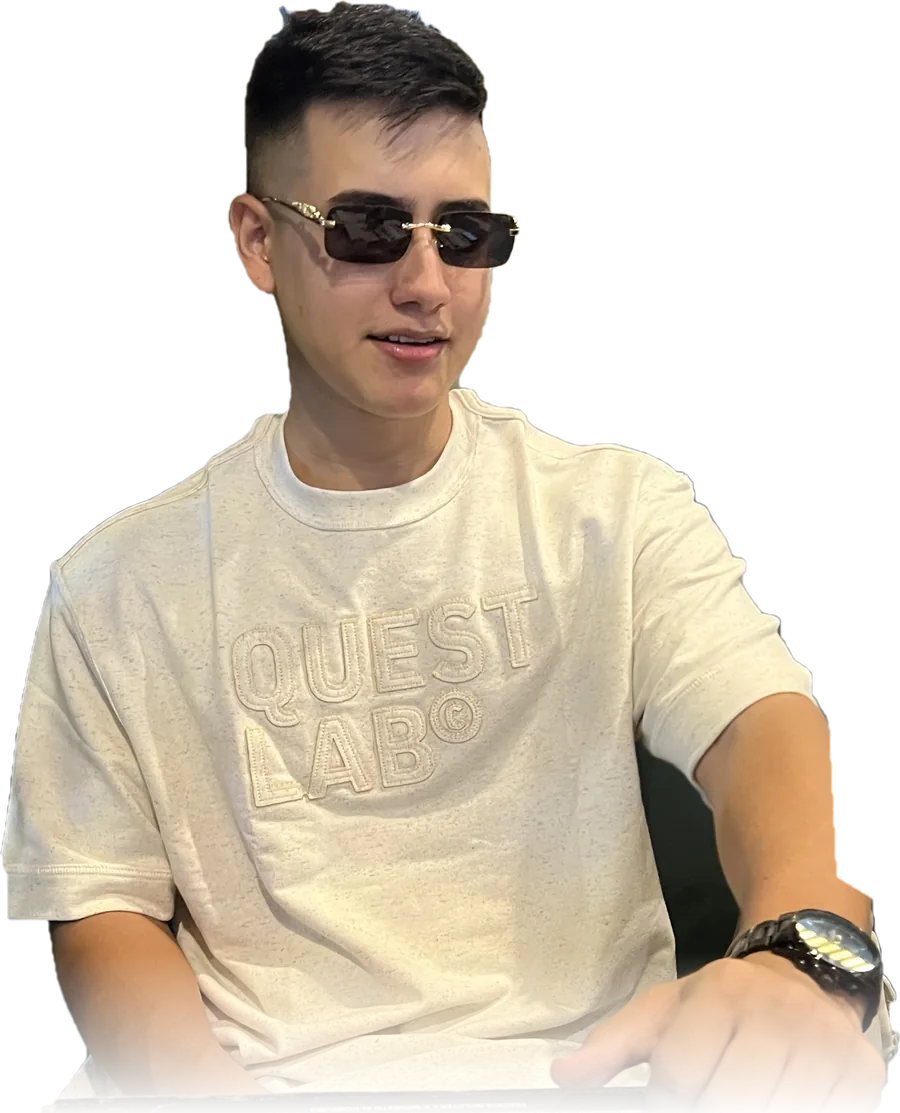
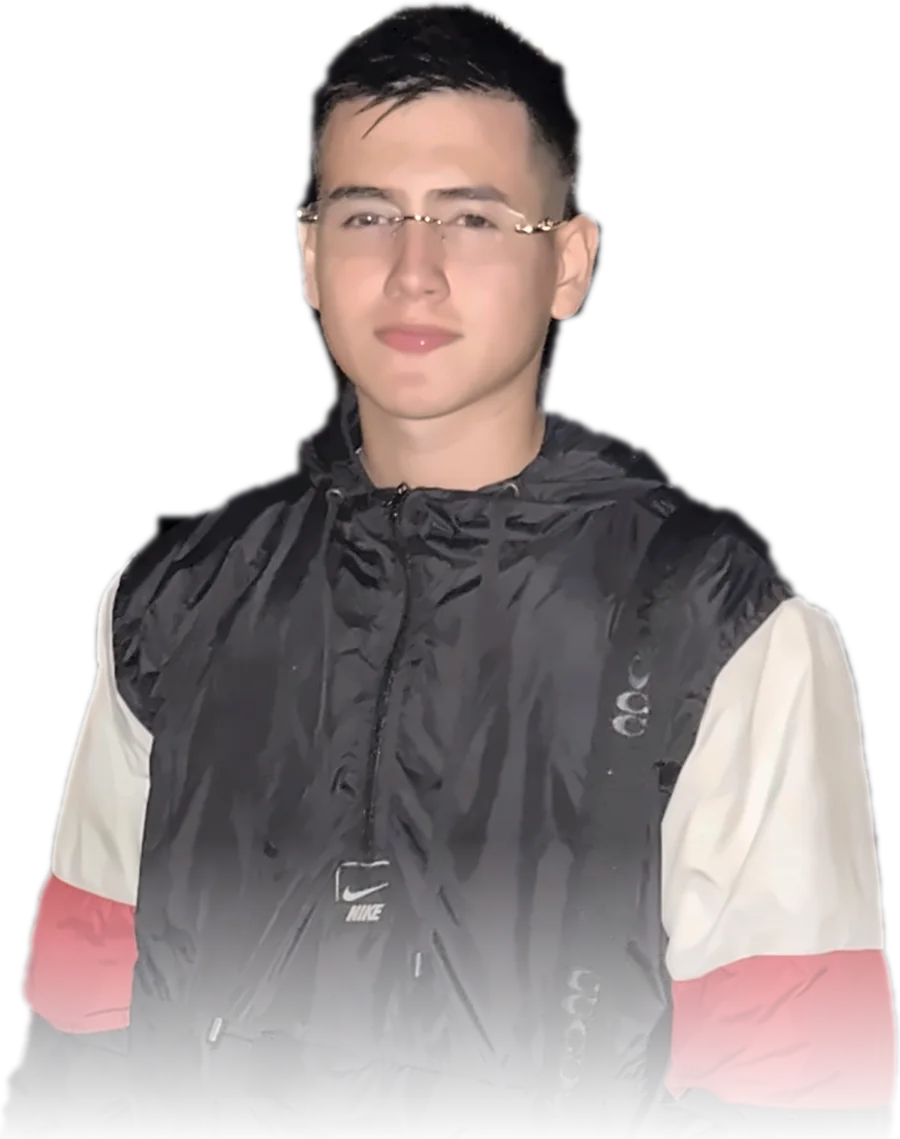
Cambia foto de perfil
Claude-Session: https://claude.ai/code/session_0193meBA6T6nsahX29ajnL5h

diff --git a/index.html b/index.html
@@ -59,7 +59,7 @@
   .portrait{position:relative;aspect-ratio:4/5;border-radius:28px;overflow:hidden;cursor:pointer;
     background:linear-gradient(160deg,#2a1a1e,#140e10);border:1px solid var(--line)}
   .portrait::before{content:"";position:absolute;inset:0;background:radial-gradient(55% 45% at 50% 40%,rgba(122,31,43,.55),transparent 70%);transition:opacity .6s}
-  .portrait img{position:absolute;left:50%;bottom:0;width:96%;height:auto;transform:translateX(-50%) scale(1);transform-origin:bottom center;
+  .portrait img{position:absolute;left:50%;bottom:0;width:90%;height:auto;transform:translateX(-50%) scale(1);transform-origin:bottom center;
     filter:grayscale(1) contrast(1.08) brightness(.95);transition:filter .7s ease,transform .7s ease}
   .portrait:hover img,.portrait.color img{filter:grayscale(0) contrast(1) brightness(1);transform:translateX(-50%) scale(1.03)}
   .portrait:hover::before,.portrait.color::before{opacity:.4}
@@ -197,7 +197,7 @@
     </div>
 
     <div class="portrait rv" id="portrait">
-      <img src="img/angel.webp" alt="Angel Diaz" width="900" height="1113">
+      <img src="img/angel.webp" alt="Angel Diaz" width="900" height="1139">
       <div class="stat"><b>Full Stack</b><small>Java · React · React Native</small></div>
       <div class="stat l"><b class="count" data-to="3">0</b><small>certificaciones Certiprof</small></div>
       <div class="note">Pasa el cursor o toca la foto</div>
